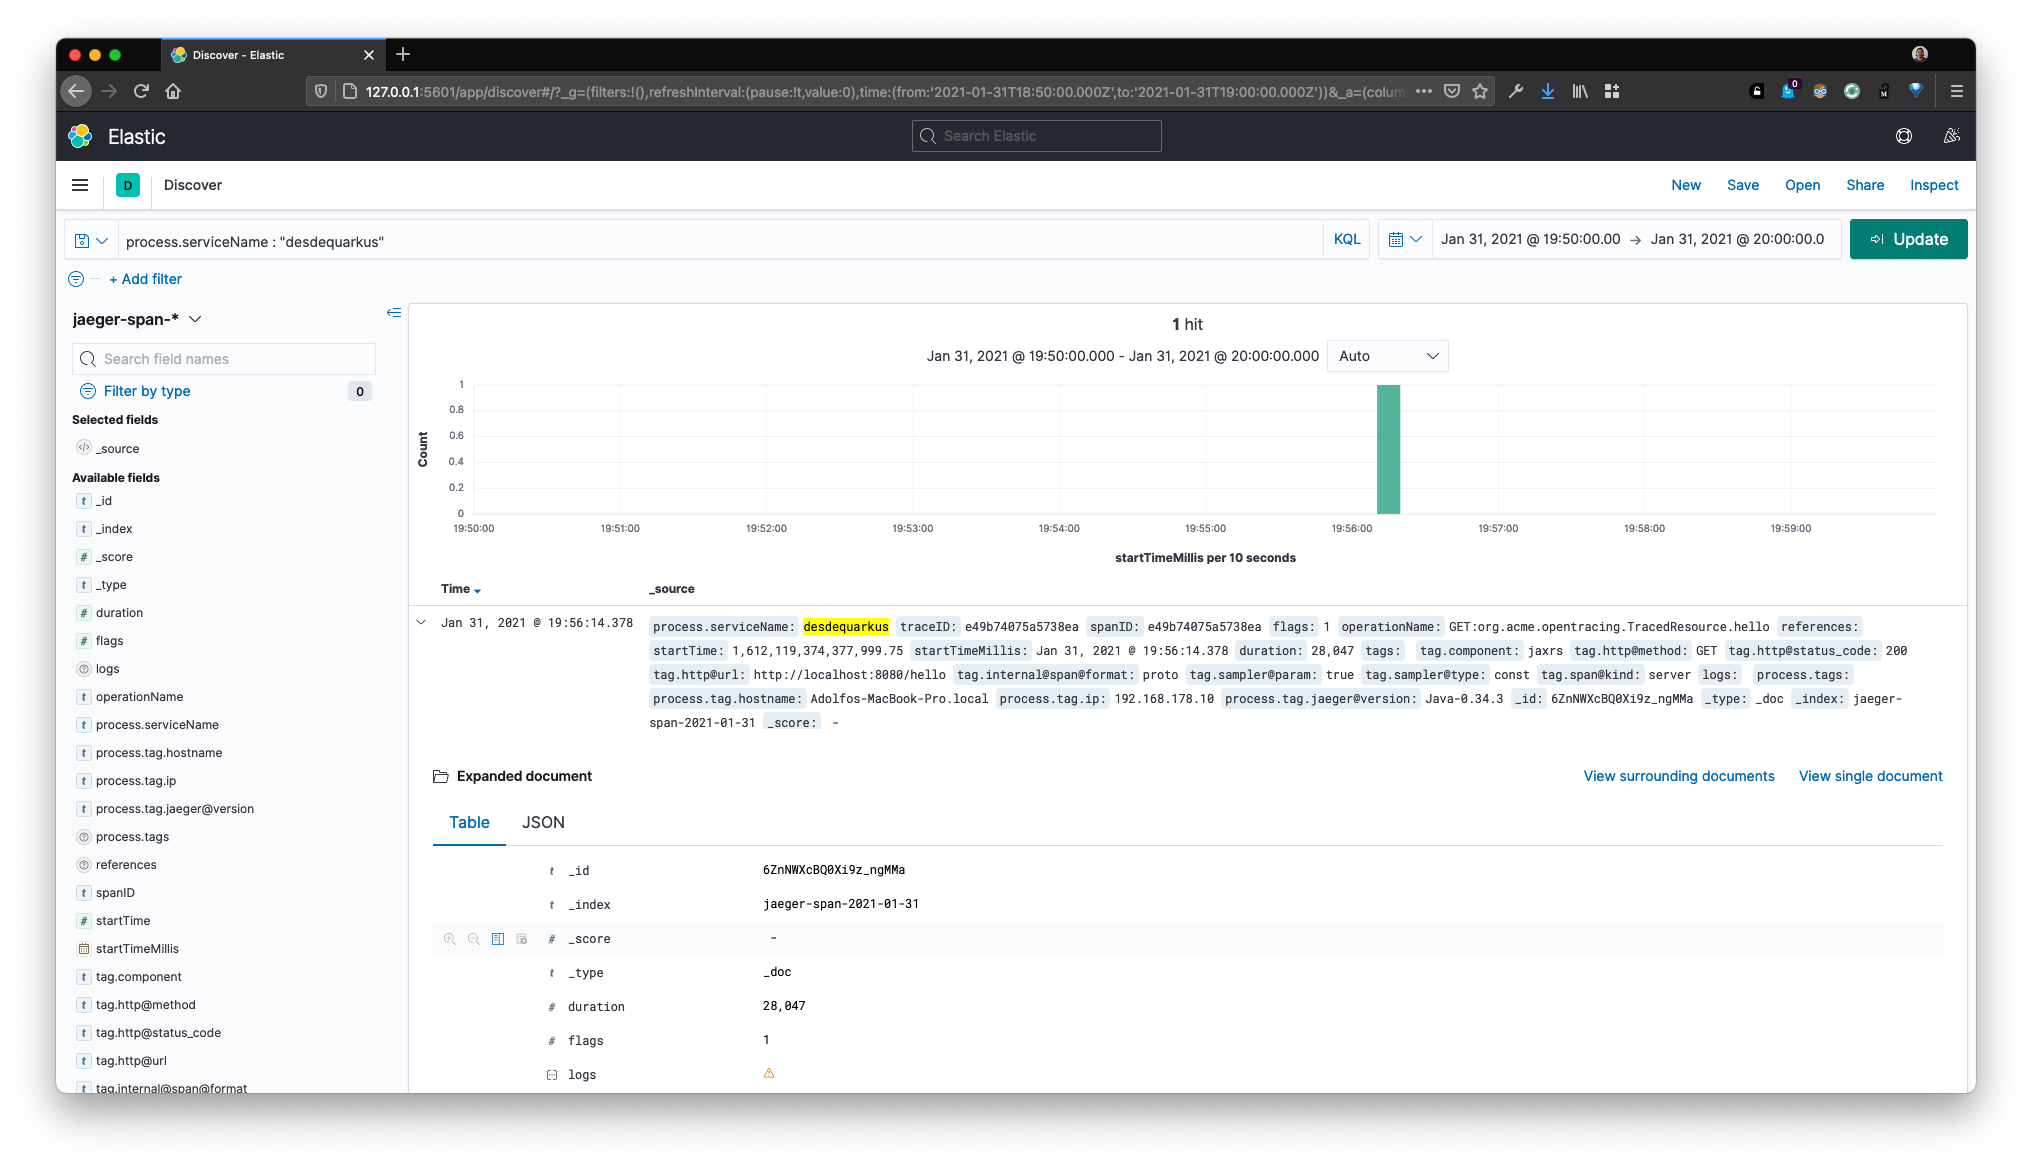
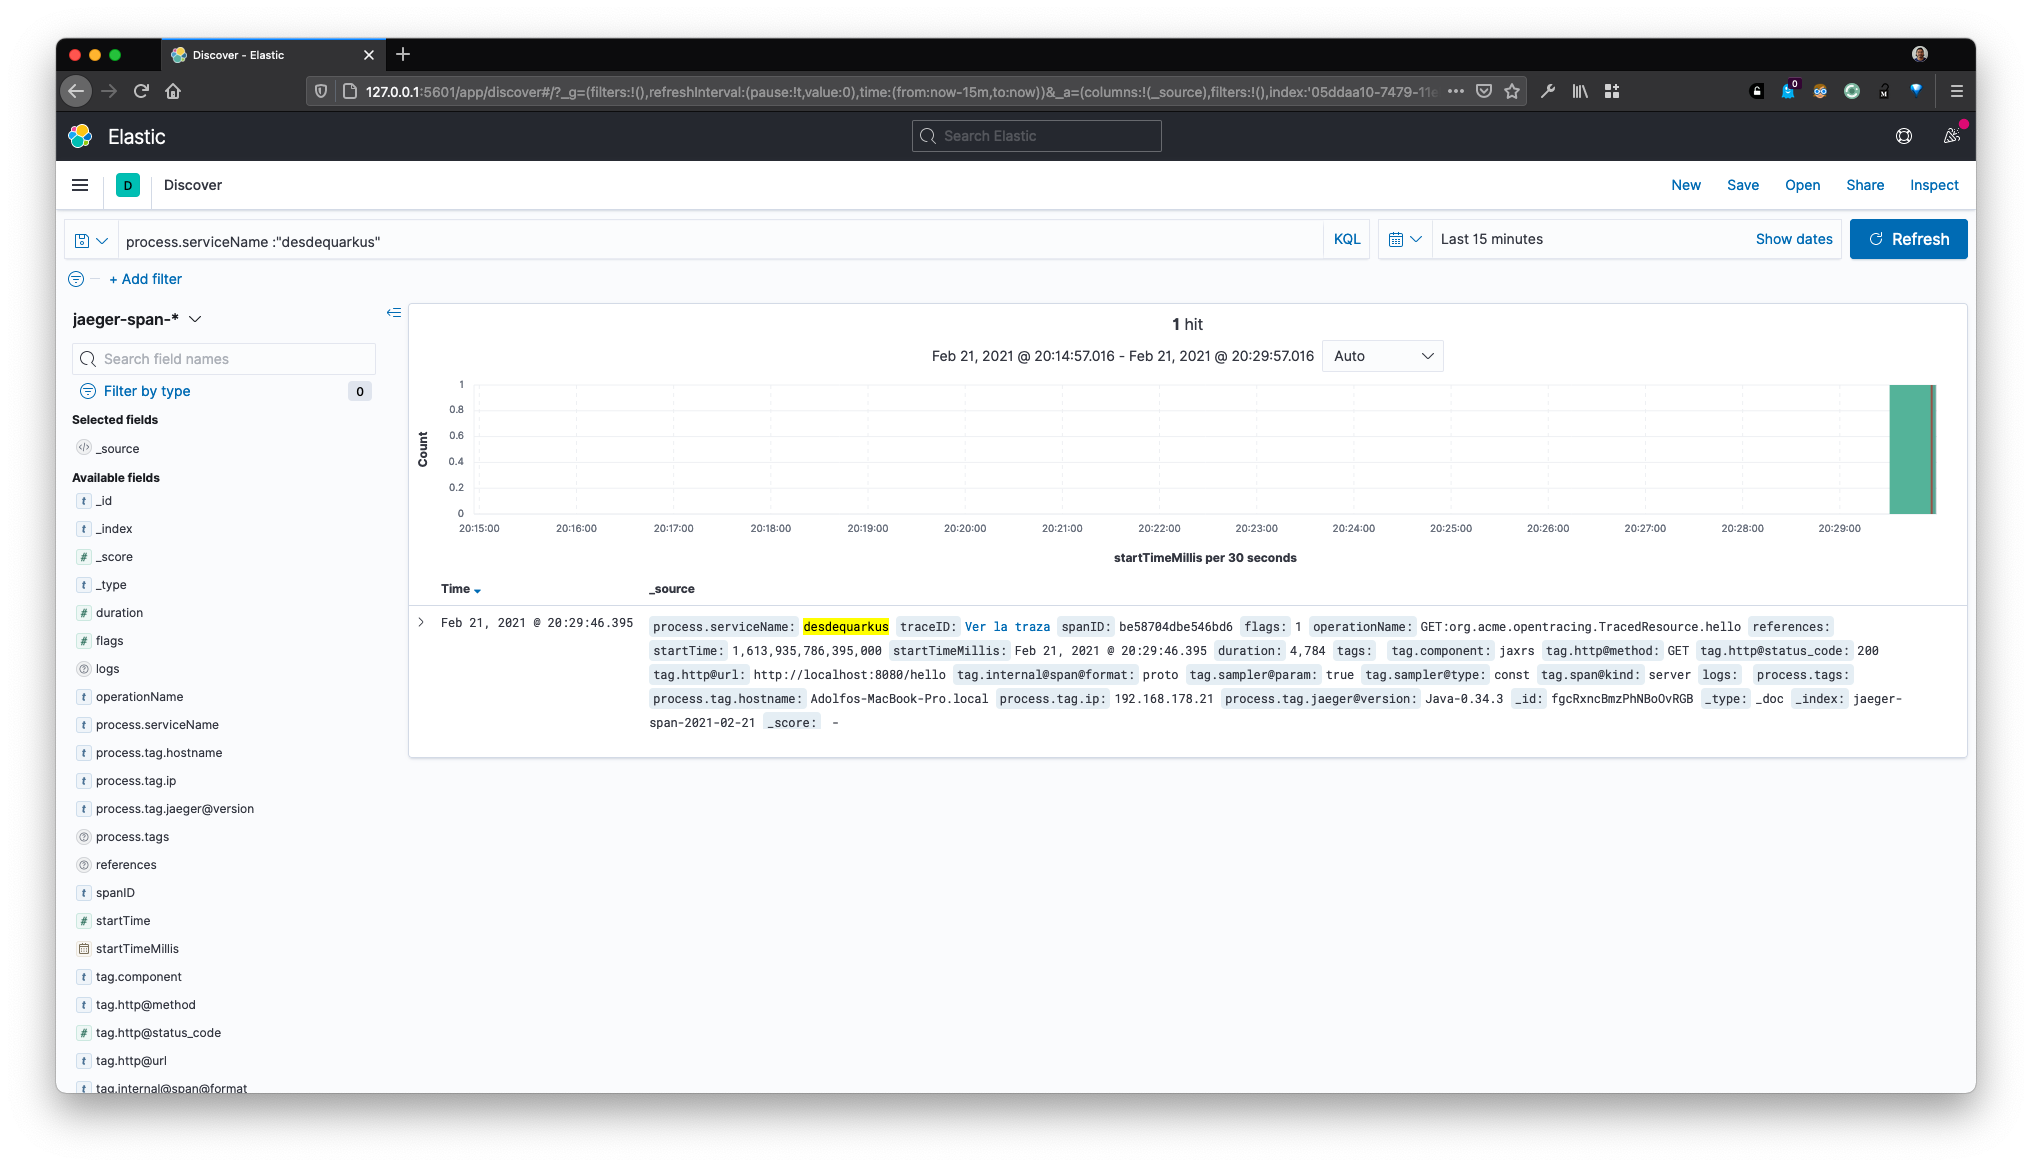
Pegamento entre kibana y Jager para la data persistida

diff --git a/README.md b/README.md
@@ -388,6 +388,7 @@ curl -X GET "localhost:9200/_cat/indices?v"
 ```
 
 Obteniendo algo similar a:
+
 ```shell
 health status index                           uuid                   pri rep docs.count docs.deleted store.size pri.store.size
 green  open   .apm-custom-link                gmBAV5X6SZ65c7MUwamVWQ   1   0          0            0       208b           208b
@@ -398,6 +399,7 @@ green  open   .kibana_1                       VFmSuTL3RY6Xcjwddom5TQ   1   0    
 green  open   .kibana-event-log-7.10.2-000001 csraWriSQBK-8Zm-LGaBCg   1   0          1            0      5.5kb          5.5kb
 yellow open   jaeger-span-2021-02-21          _Ko7zWIWRdGdoEnEm_zDNA   5   1       1795            0      391kb          391kb
 ```
+
 Nuestro interes seran los índices de jaeger con prefijo jaeger-span-*
 
 * Verificar el mapeo en jaeger
@@ -411,7 +413,9 @@ curl -X GET "localhost:9200/jaeger-span-*/_mapping" | jq
 ```shell
 curl -X GET "localhost:9200/jaeger-span-*/_mapping/field/tag.http@status_code" | jq
 ```
+
 Obteniendo:
+
 ```shell
 {
   "jaeger-span-2021-02-21": {
@@ -452,11 +456,13 @@ curl http://localhost:8080/hello
 ```
 
 Obteniendo en el shell del client
+
 ```shell
 hello
 ```
 
 Obteniendo en la terminal de servicio
+
 ```shell
 Listening for transport dt_socket at address: 5005
 __  ____  __  _____   ___  __ ____  ______ 
@@ -482,19 +488,30 @@ Al seleccionarlo nos dara los detalles registrados de la traza de ese request
 
 * Comprobemos la persistencia de la traza en Kibana
 
-Vamos a requerir el patron indice (Index pattern) en kibana para que este sepa como tratar el índice por defecto de la
-data que viene de Jaeger "jaeger-span-*"
+Importante! Vamos a requerir el patron indice (Index pattern) en kibana para que este sepa como tratar el índice por
+defecto de la data que viene de Jaeger "jaeger-span-*"
 
 ![](images/media/kibana1.png)
 
+Ahora bien, creemos el pegamento entre kibana y jaeger para navegar entre el detalle de las trazas y la plataforma de
+visualización, con el índice ya creado, vamos a extender el campo ```traceID``` de tal forma que se comporte como URL,
+permitiéndonos ver el detalle de la traza desde kibana mismo, solamente para esto requeriremos esta URL
+template ```http://localhost:16686/trace/{{value}}``` (Obviamente esta se va a tener que ajustar al ambiente en el que
+estemos trabajando)
+
+![](images/media/kibana1a.png)
+
 Teniendo esto podremos corroborar la data persistida de las trazas de nuestro servicio "desdequarkus" con un simple
-query, desde la opcion Discovery de kibana:
+query, desde la opción Discovery de kibana:
 
 ```
 process.serviceName : "desdequarkus" 
 ```
 
 ![](images/media/kibana2.png)
+Ahora nuestras trazas persistidas no solamente seran habilitadas para su búsqueda, sino que también podremos navegar
+fácilmente al detalle de esta traza en el contexto de Jaeger. Luego cuando desarrollemos las visualizaciones veremos la
+utilidad de esta funcionalidad.
 
 ## Herramientas y estándares
 
